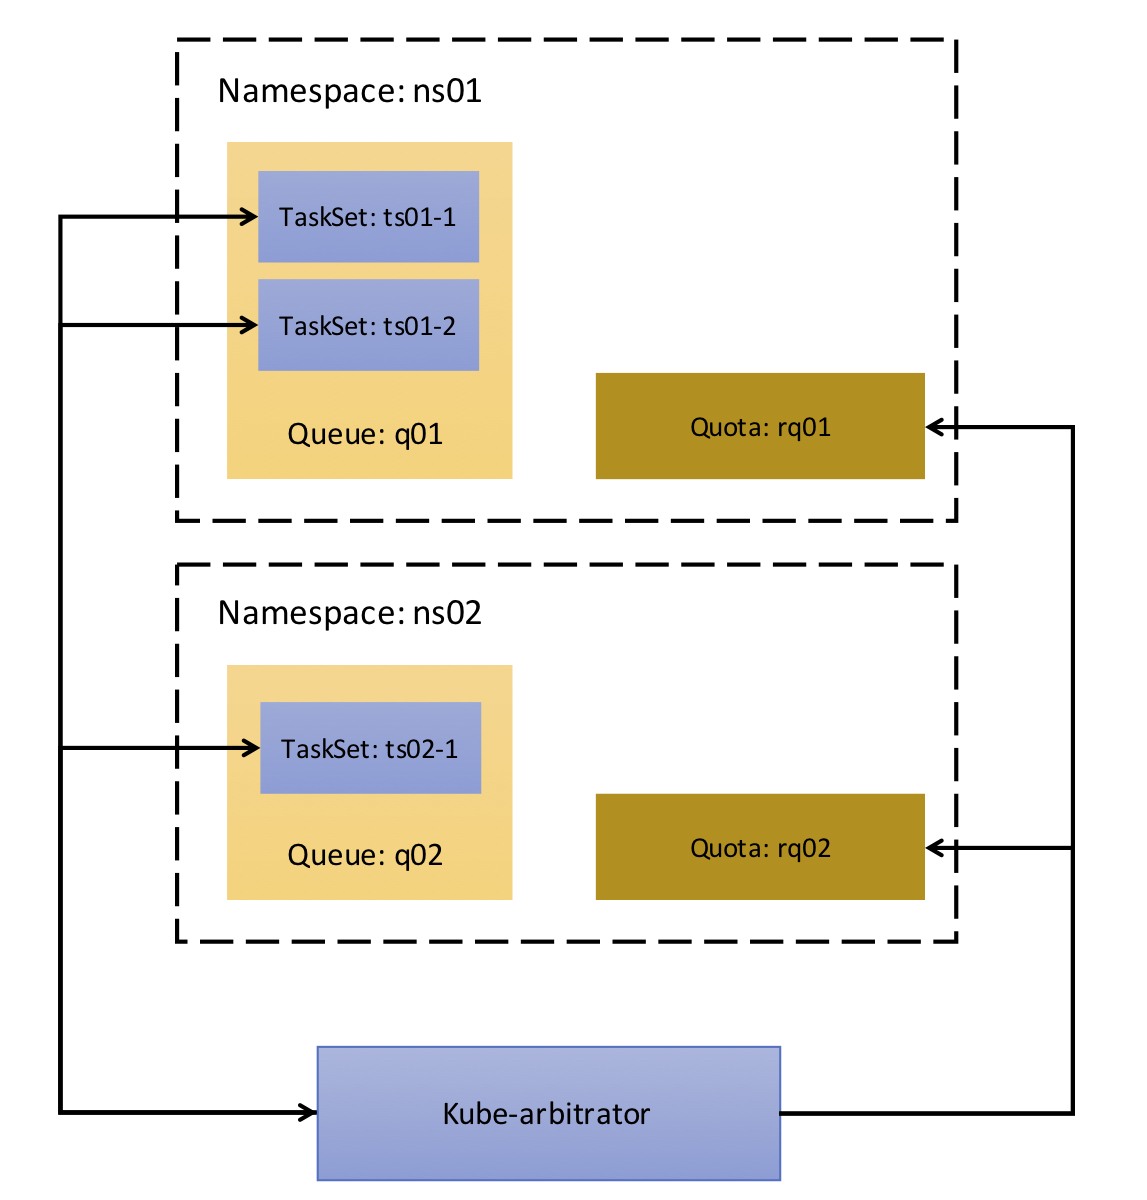
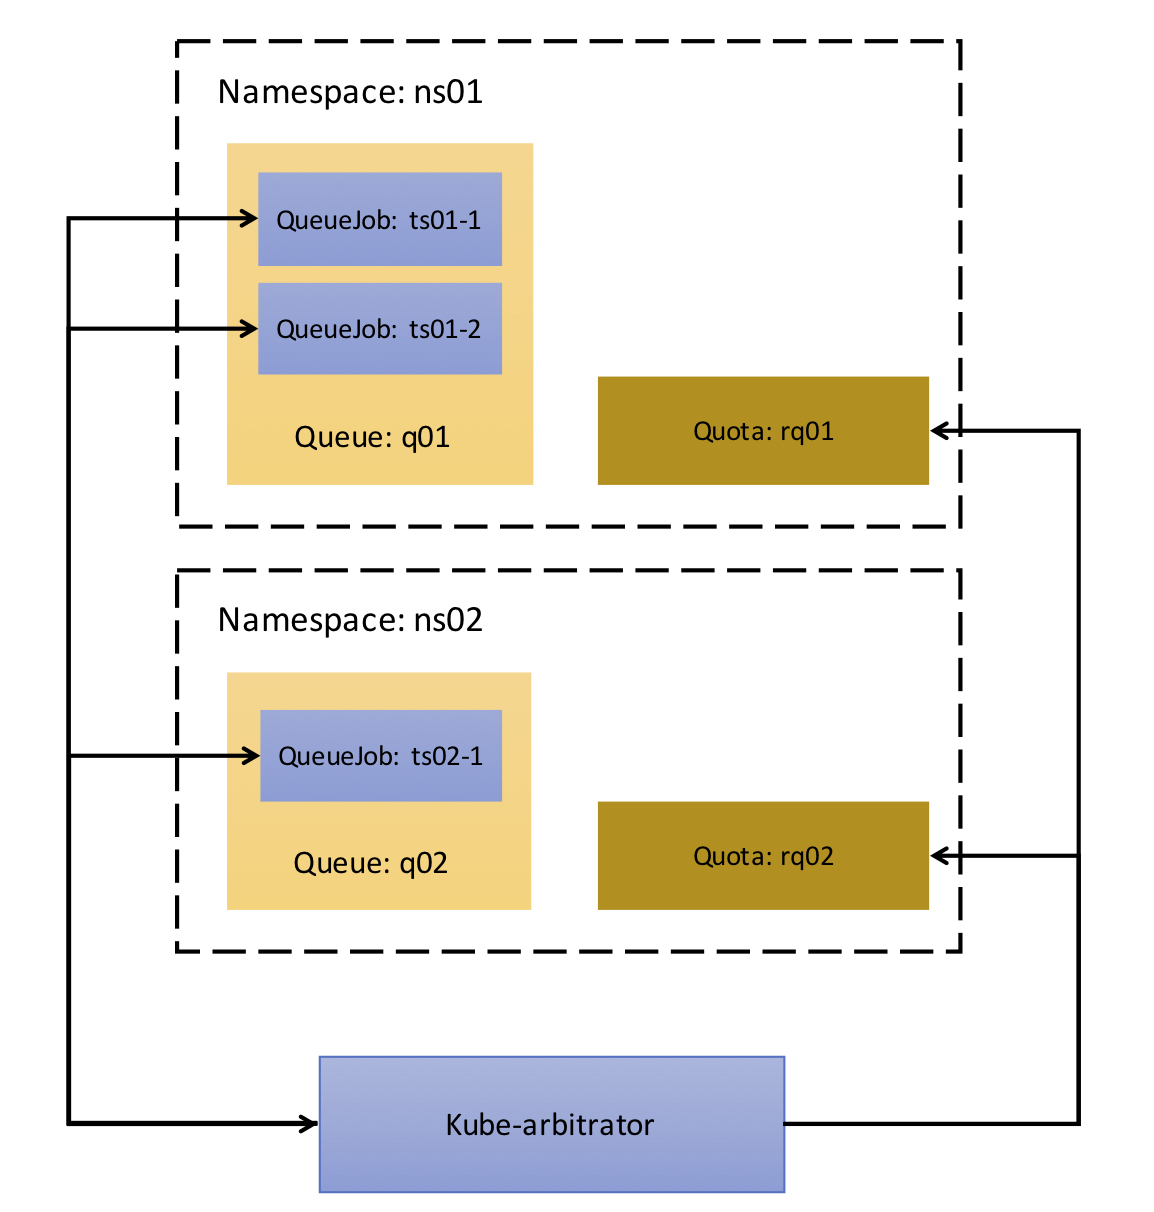
update doc for queuejob

diff --git a/doc/usage/tutorial.md b/doc/usage/tutorial.md
@@ -93,39 +93,39 @@ spec:
 
 Kube-arbitrator will allocate resources to the two queues `q01` and `q02` according to their weight and resource requirement after it starts up. Now it uses max-min weighted fairness algorithm.
 
-## 4. Create TaskSet CRD
-`TaskSet` is a kubernetes CRD [(custom resources definition)](https://kubernetes.io/docs/tasks/access-kubernetes-api/extend-api-custom-resource-definitions/). Following is the yaml file of TaskSet CRD and it must be created before Kube-arbitrator startup.
+## 4. Create QueueJob CRD
+`QueueJob` is a kubernetes CRD [(custom resources definition)](https://kubernetes.io/docs/tasks/access-kubernetes-api/extend-api-custom-resource-definitions/). Following is the yaml file of QueueJob CRD and it must be created before Kube-arbitrator startup.
 
 ```yaml
 apiVersion: apiextensions.k8s.io/v1beta1
 kind: CustomResourceDefinition
 metadata:
-  name: tasksets.arbitrator.incubator.k8s.io
+  name: queuejobs.arbitrator.incubator.k8s.io
 spec:
   group: arbitrator.incubator.k8s.io
   names:
-    kind: TaskSet
-    listKind: TaskSetList
-    plural: tasksets
-    singular: taskset
+    kind: QueueJob
+    listKind: QueueJobList
+    plural: queuejobs
+    singular: queuejob
   scope: Namespaced
   version: v1
 ```
 
-Verify taskset crd after creation 
+Verify queuejob crd after creation 
 
 ```
 # kubectl get crd
 NAME                                    KIND
-tasksets.arbitrator.incubator.k8s.io    CustomResourceDefinition.v1beta1.apiextensions.k8s.io
+queuejobs.arbitrator.incubator.k8s.io   CustomResourceDefinition.v1beta1.apiextensions.k8s.io
 ```
 
-## 5. Create TaskSet
-A Queue contains several TaskSet. A taskset is like a batch job. Following is yaml template of `TaskSet`:
+## 5. Create QueueJob
+A Queue contains several QueueJob. A queuejob is like a batch job or big data application. Following is yaml template of `QueueJob`:
 
 ```
 apiVersion: "arbitrator.incubator.k8s.io/v1"
-kind: TaskSet
+kind: QueueJob
 metadata:
   name: xxx
   namespace: xxx
@@ -139,26 +139,26 @@ spec:
       memory: xxxGi
 ```
 
-* `name`: name of this taskset
-* `namespace`: namespace of this taskset
-* `queue`: queue which the taskset belongs to
-* `priority`: higher priority of taskset can resources from the queue first
+* `name`: name of this queuejob
+* `namespace`: namespace of this queuejob
+* `queue`: queue which the queuejob belongs to
+* `priority`: higher priority of queuejob can resources from the queue first
 * `resourceno`: request resources number
 * `resourceunit`: resources unit
 
-For example, create 3 taskset like following, `ts01-1` and `ts01-2` in queue `q01`, `ts02-1` in queue `q02`
+For example, create 3 queuejob like following, `ts01-1` and `ts01-2` in queue `q01`, `ts02-1` in queue `q02`
 
 ```
-# kubectl get taskset --all-namespaces
+# kubectl get queuejob --all-namespaces
 NAMESPACE   NAME      KIND
-ns01        ts01-1    TaskSet.v1.arbitrator.incubator.k8s.io
-ns01        ts01-2    TaskSet.v1.arbitrator.incubator.k8s.io
-ns02        ts02-1    TaskSet.v1.arbitrator.incubator.k8s.io
+ns01        ts01-1    QueueJob.v1.arbitrator.incubator.k8s.io
+ns01        ts01-2    QueueJob.v1.arbitrator.incubator.k8s.io
+ns02        ts02-1    QueueJob.v1.arbitrator.incubator.k8s.io
 ```
 ```
-# cat taskset01-1.yaml 
+# cat queuejob01-1.yaml 
 apiVersion: "arbitrator.incubator.k8s.io/v1"
-kind: TaskSet
+kind: QueueJob
 metadata:
   name: ts01-1
   namespace: ns01
@@ -172,9 +172,9 @@ spec:
       memory: 1Gi
 ```
 ```
-# cat taskset01-2.yaml 
+# cat queuejob01-2.yaml 
 apiVersion: "arbitrator.incubator.k8s.io/v1"
-kind: TaskSet
+kind: QueueJob
 metadata:
   name: ts01-2
   namespace: ns01
@@ -188,9 +188,9 @@ spec:
       memory: 1Gi
 ```
 ```
-# cat taskset02-1.yaml 
+# cat queuejob02-1.yaml 
 apiVersion: "arbitrator.incubator.k8s.io/v1"
-kind: TaskSet
+kind: QueueJob
 metadata:
   name: ts02-1
   namespace: ns02
@@ -204,7 +204,7 @@ spec:
       memory: 1Gi
 ```
 
-After that, resource request of a queue equals the sum of taskset resource request under the queue.
+After that, resource request of a queue equals the sum of queuejob resource request under the queue.
 So in Kube-arbitrator, `q01` resource request is `cpu=11,memory=11Gi`, `q02` resource request is `cpu=5,memory=5Gi`.
 
 ## 6. Create Resource Quota
@@ -297,7 +297,7 @@ spec:
 ... ...
 ```
 ```
-# kubectl get taskset ts01-1 -n ns01 -o yaml
+# kubectl get queuejob ts01-1 -n ns01 -o yaml
 ... ...
 status:
   allocated:
@@ -307,7 +307,7 @@ status:
       memory: 4Gi
 ```
 ```
-# kubectl get taskset ts01-2 -n ns01 -o yaml
+# kubectl get queuejob ts01-2 -n ns01 -o yaml
 ... ...
 status:
   allocated:
@@ -317,7 +317,7 @@ status:
       memory: "7516192768"
 ```
 ```
-# kubectl get taskset ts02-1 -n ns02 -o yaml
+# kubectl get queuejob ts02-1 -n ns02 -o yaml
 ... ...
 status:
   allocated:

diff --git a/doc/design/queuejob_api.md b/doc/design/queuejob_api.md
@@ -1,0 +1,57 @@
+#QueueJob API
+
+@jinzhejz, 12/22/2017
+
+##Overview
+[Resource sharing architecture for batch and serving workloads in Kubernetes](https://docs.google.com/document/d/1-H2hnZap7gQivcSU-9j4ZrJ8wE_WwcfOkTeAGjzUyLA/edit#) proposed
+`QueueJob` feature to run batch job with services workload in Kuberentes. Considering the complexity, the whole batch job proposal was seperated into two phase: `Queue` and `QueueJob`. This document presents the API deinition of `QueueJob` and feature interaction with `Queue`.
+
+##API
+```go
+// +k8s:deepcopy-gen:interfaces=k8s.io/apimachinery/pkg/runtime.Object
+type QueueJob struct {
+	metav1.TypeMeta   `json:",inline"`
+	metav1.ObjectMeta `json:"metadata"`
+	Spec              QueueJobSpec   `json:"spec"`
+	Status            QueueJobStatus `json:"status,omitempty"`
+}
+
+type QueueJobSpec struct {
+	// Priority of the QueueJob, higher priority QueueJob gets resources first
+	Priority     int          `json:"priority"`
+	// ResourceUnit * ResourceNo = total resource of QueueJob
+	ResourceUnit ResourceList `json:"resourceunit"`
+	ResourceNo   int          `json:"resourceno"`
+	// The Queue which the QueueJob belongs to
+	Queue        string       `json:"queue"`
+}
+
+type QueueJobStatus struct {
+	// The resources allocated to the QueueJob
+	Allocated ResourceList `json:"allocated"`
+}
+
+// +k8s:deepcopy-gen:interfaces=k8s.io/apimachinery/pkg/runtime.Object
+type QueueJobList struct {
+	metav1.TypeMeta `json:",inline"`
+	metav1.ListMeta `json:"metadata"`
+	Items           []QueueJob `json:"items"`
+}
+```
+
+##Function details
+###Workflow
+![workflow](../images/queuejob.jpg)
+
+It is basically the same as the workflow in Queue API document (`QuotaManager` is not included in above workflow). The difference is just including `QueueJob` in `Queue`.
+
+A `Queue` can include 0 or more `QueueJob`. 
+
+* If a Queue includes 0 QueueJob, its resource request is same as before. Such as `q03` in above.
+* If a Queue includes 1 or more QueueJob, the resource request of the queue equals the sum of all QueueJob resource request. Such as `q01` and `q02` in above.
+
+For Queue `q01` and `q02`, Kube-arbitrator will assign resources to their QueueJob directly.
+For Queue `q03`, Kube-arbitrator will just assign resources to the Queue.
+
+##Future work
+* Now QueueJob is associated not with the real batch job, users who want to submit a batch job need to create their own QueueJob and watch the QueueJob, then submit their batch job after kube-arbitrator assign resources to QueueJob.

diff --git a/doc/design/preemption.md b/doc/design/preemption.md
@@ -234,4 +234,4 @@ After pod-3 in Queue-1 and pod-3 in Queue-2 are terminated, Queue-3 resources wi
 	* Priority. Each pod has a priority, the lower priority pod will be selected first.
 	* Status. The pending pod will be selected first and then running pod will be selected.
 	* Runningtime. The pod with short running time will be selected first.
-* Only `Queue` level (or namespace level) preemption is supported. `QueueJob` level (or `TaskSet` level) preemption is not, and its behaviour will be same as `Queue` level.
+* Only `Queue` level (or namespace level) preemption is supported. `QueueJob` level preemption is not, and its behaviour will be same as `Queue` level.
